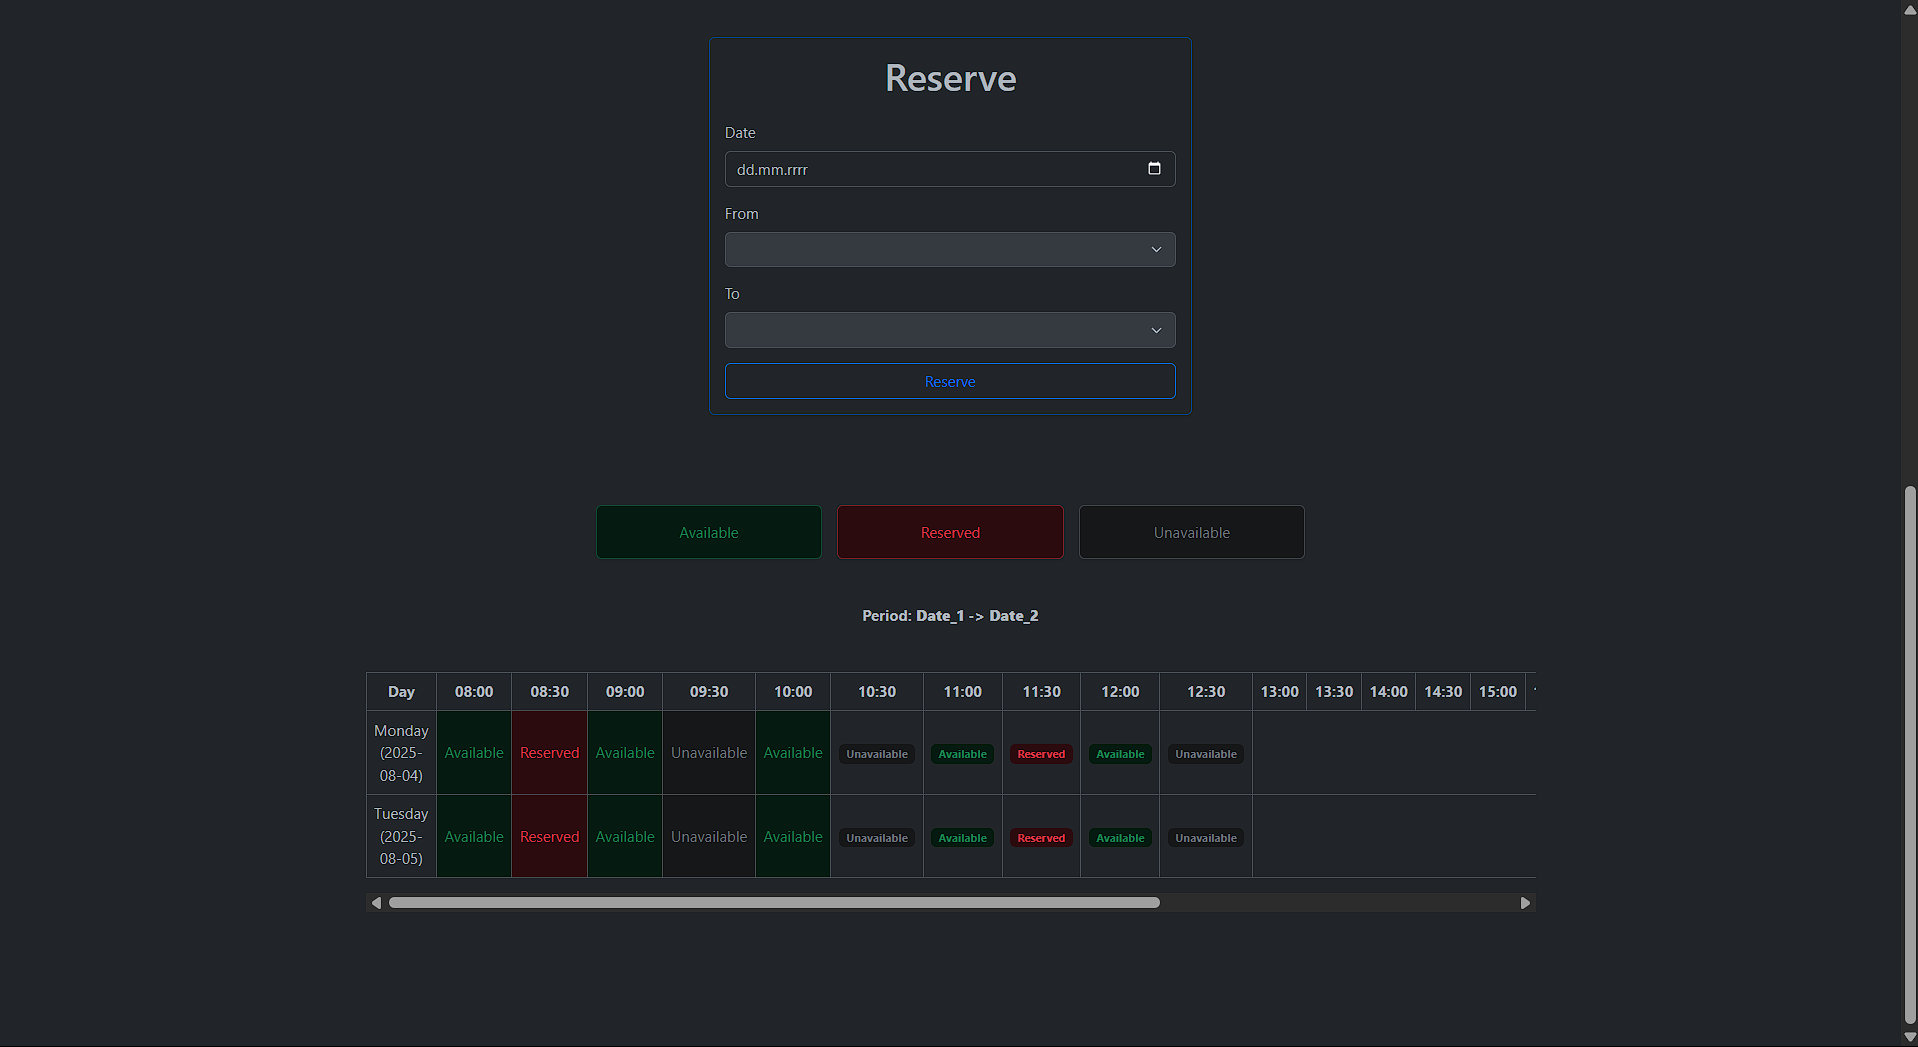
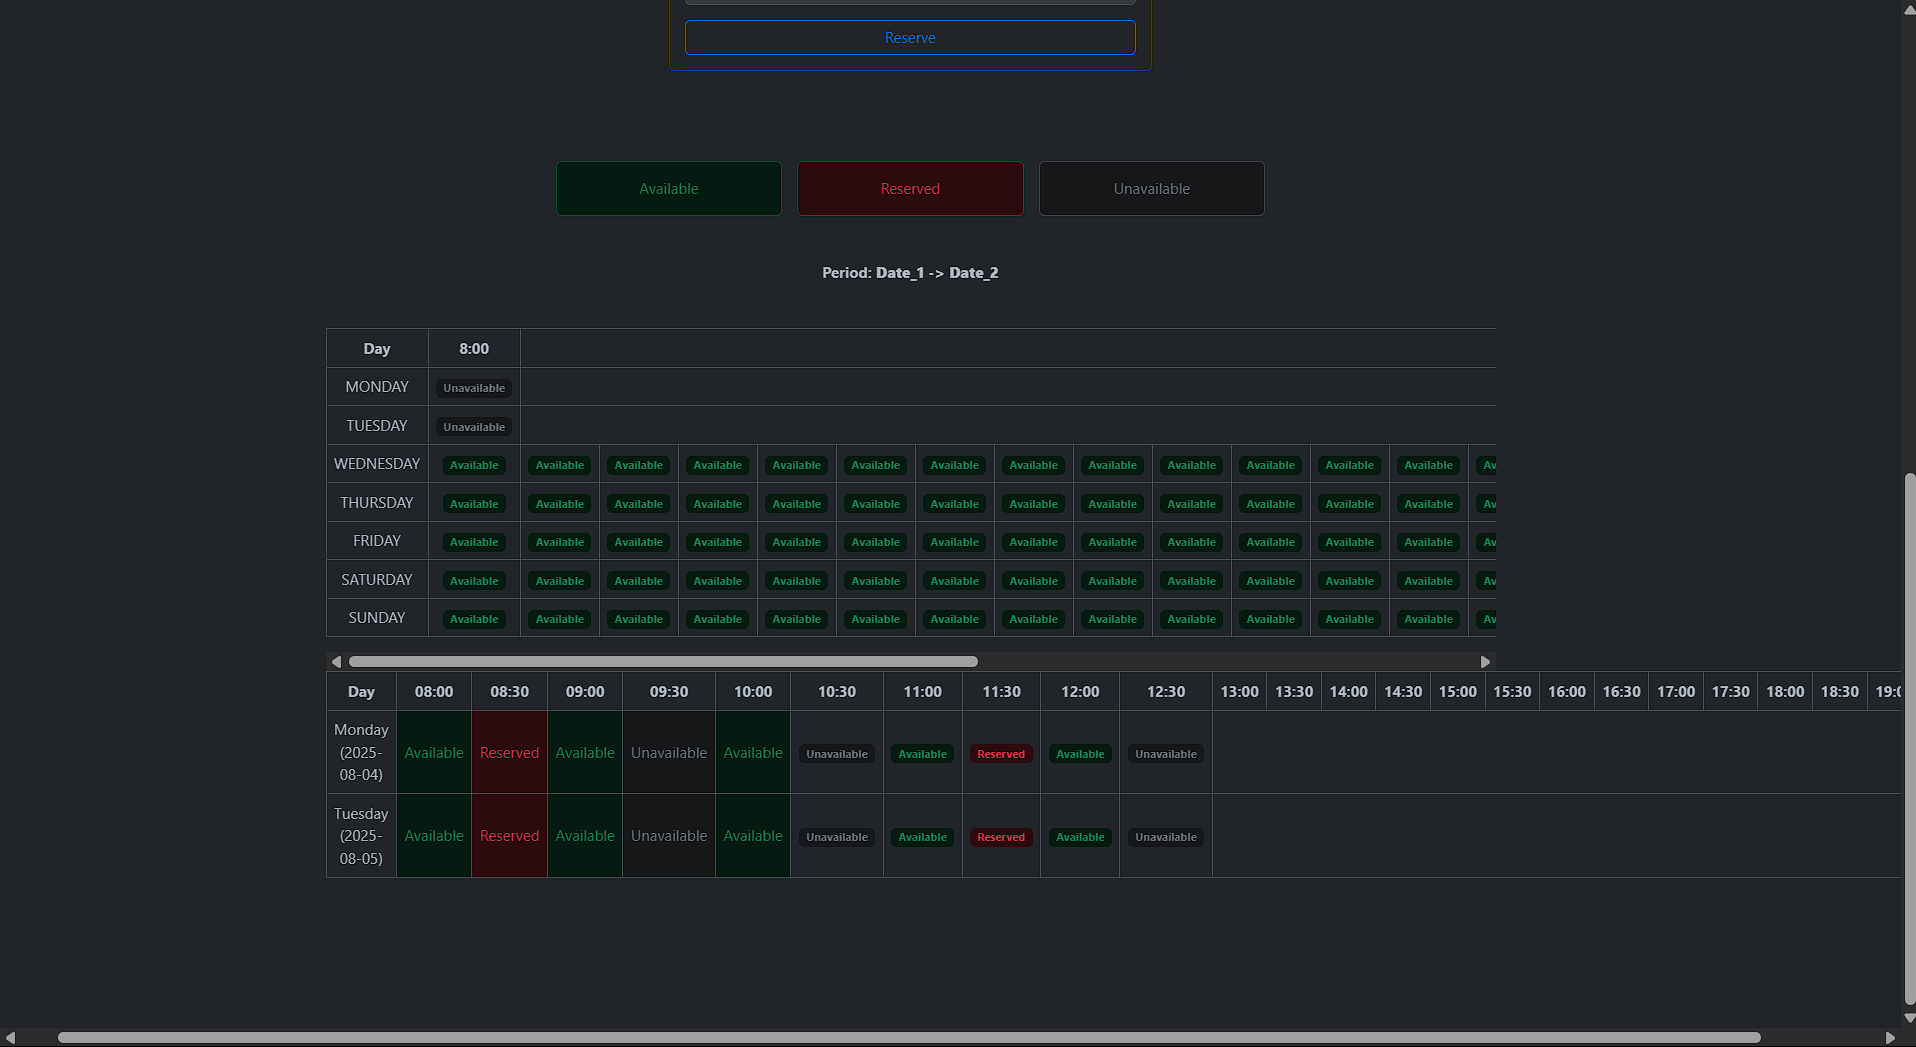
Reservation view
1. Added calendarData to the model in POST /reserve endpoint (lack of it had result in error while opening the resource-detail page).

2. Handled exception while resource had no availability for the day.

diff --git a/src/main/resources/templates/resource-detail.html b/src/main/resources/templates/resource-detail.html
@@ -148,8 +148,9 @@
         </div>
 
         <!--Calendar Grid-->
+        <!--Probably better to load it with js-->
         <div class="container py-5">
-            <div th:if="${!calendarError}">
+            <div th:if="${calendarData != null}">
                 <div class="table-responsive" id="calendar">
 
                     <table class="table table-bordered text-center align-middle">
@@ -177,7 +178,7 @@
                     </table>
                 </div>
 
-                <div th:if="${calendarError}" id="calendarErrorMessage" class="alert alert-warning">
+                <div th:if="${calendarData == null}" id="calendarErrorMessage" class="alert alert-warning">
                     Error occurred during loading calendar view.
                 </div>
 

diff --git a/src/main/java/com/dunnnan/reservations/service/ReservationService.java b/src/main/java/com/dunnnan/reservations/service/ReservationService.java
@@ -129,10 +129,16 @@ public class ReservationService {
         Duration interval = reservationConstants.getReservationInterval();
 
         // Get availability period of resource
-        List<LocalTime> availability = availabilityService.getAvailabilityTimePeriod(resourceId, date);
+        List<LocalTime> availability = availabilityService.getAvailabilityTimePeriodOrReturnEmptyList(resourceId, date);
+        if (availability.isEmpty()) {
+            // Shouldn't be left like that
+            return List.of(List.of("8:00"), List.of("Unavailable"));
+        }
+
         LocalTime openingTime = availability.get(0);
         LocalTime closingTime = availability.get(1);
 
+        // Get possible reservation hours
         List<LocalTime> allPossibleHours = timeUtil.getAllPossibleReservationHours(openingTime, closingTime);
 
         // Specify occupied hours

diff --git a/src/main/java/com/dunnnan/reservations/service/AvailabilityService.java b/src/main/java/com/dunnnan/reservations/service/AvailabilityService.java
@@ -10,6 +10,7 @@ import org.springframework.stereotype.Service;
 
 import java.time.LocalDate;
 import java.time.LocalTime;
+import java.util.Collections;
 import java.util.List;
 
 @Service
@@ -33,6 +34,14 @@ public class AvailabilityService {
     public List<LocalTime> getAvailabilityTimePeriod(Long id, LocalDate date) {
         Availability availability = getAvailabilityOfSpecificResourceForSpecificDay(id, date);
         return List.of(availability.getFrom(), availability.getTo());
+    }
+
+    public List<LocalTime> getAvailabilityTimePeriodOrReturnEmptyList(Long resourceId, LocalDate date) {
+        try {
+            return getAvailabilityTimePeriod(resourceId, date);
+        } catch (Exception e) {
+            return Collections.emptyList();
+        }
     }
 
     public boolean isReservationPeriodAvailable(

diff --git a/src/main/java/com/dunnnan/reservations/controller/ResourceController.java b/src/main/java/com/dunnnan/reservations/controller/ResourceController.java
@@ -131,10 +131,8 @@ public class ResourceController {
 
             try {
                 model.addAttribute("calendarData", reservationService.getReservationCalendar(id, weeksLater));
-                model.addAttribute("calendarError", false);
-                System.out.println(reservationService.getReservationCalendar(id, weeksLater));
             } catch (Exception e) {
-                model.addAttribute("calendarError", true);
+                model.addAttribute("calendarData", null);
             }
 
             return "resource-detail";

diff --git a/src/main/java/com/dunnnan/reservations/controller/ReservationController.java b/src/main/java/com/dunnnan/reservations/controller/ReservationController.java
@@ -43,6 +43,7 @@ public class ReservationController {
                 return "redirect:/home";
             }
 
+            model.addAttribute("calendarData", null);
             model.addAttribute("resource", resource.get());
             return "resource-detail";
         }
